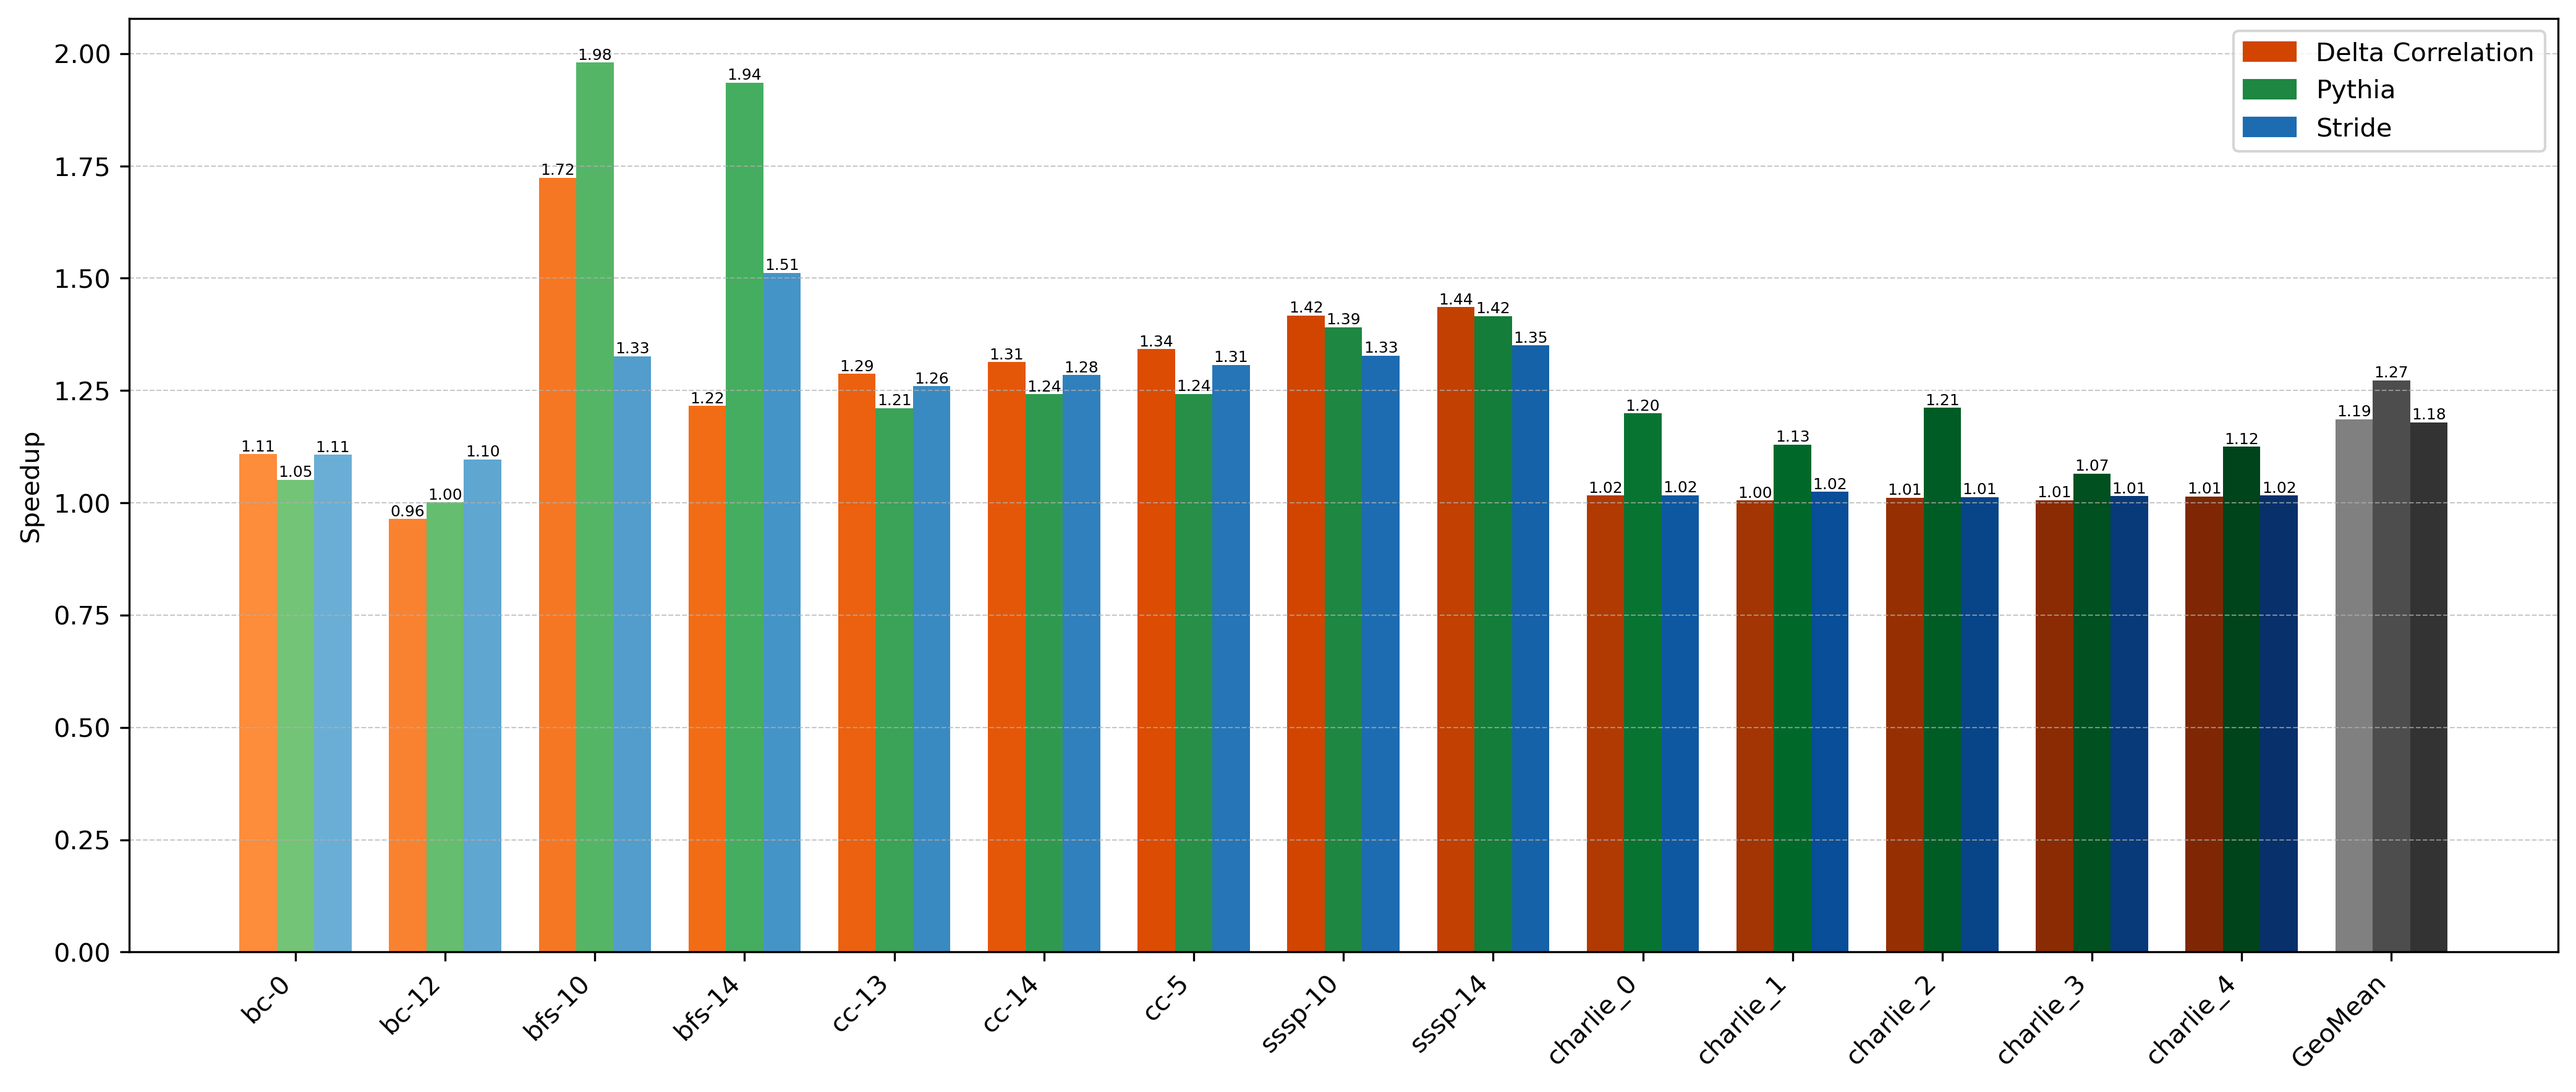
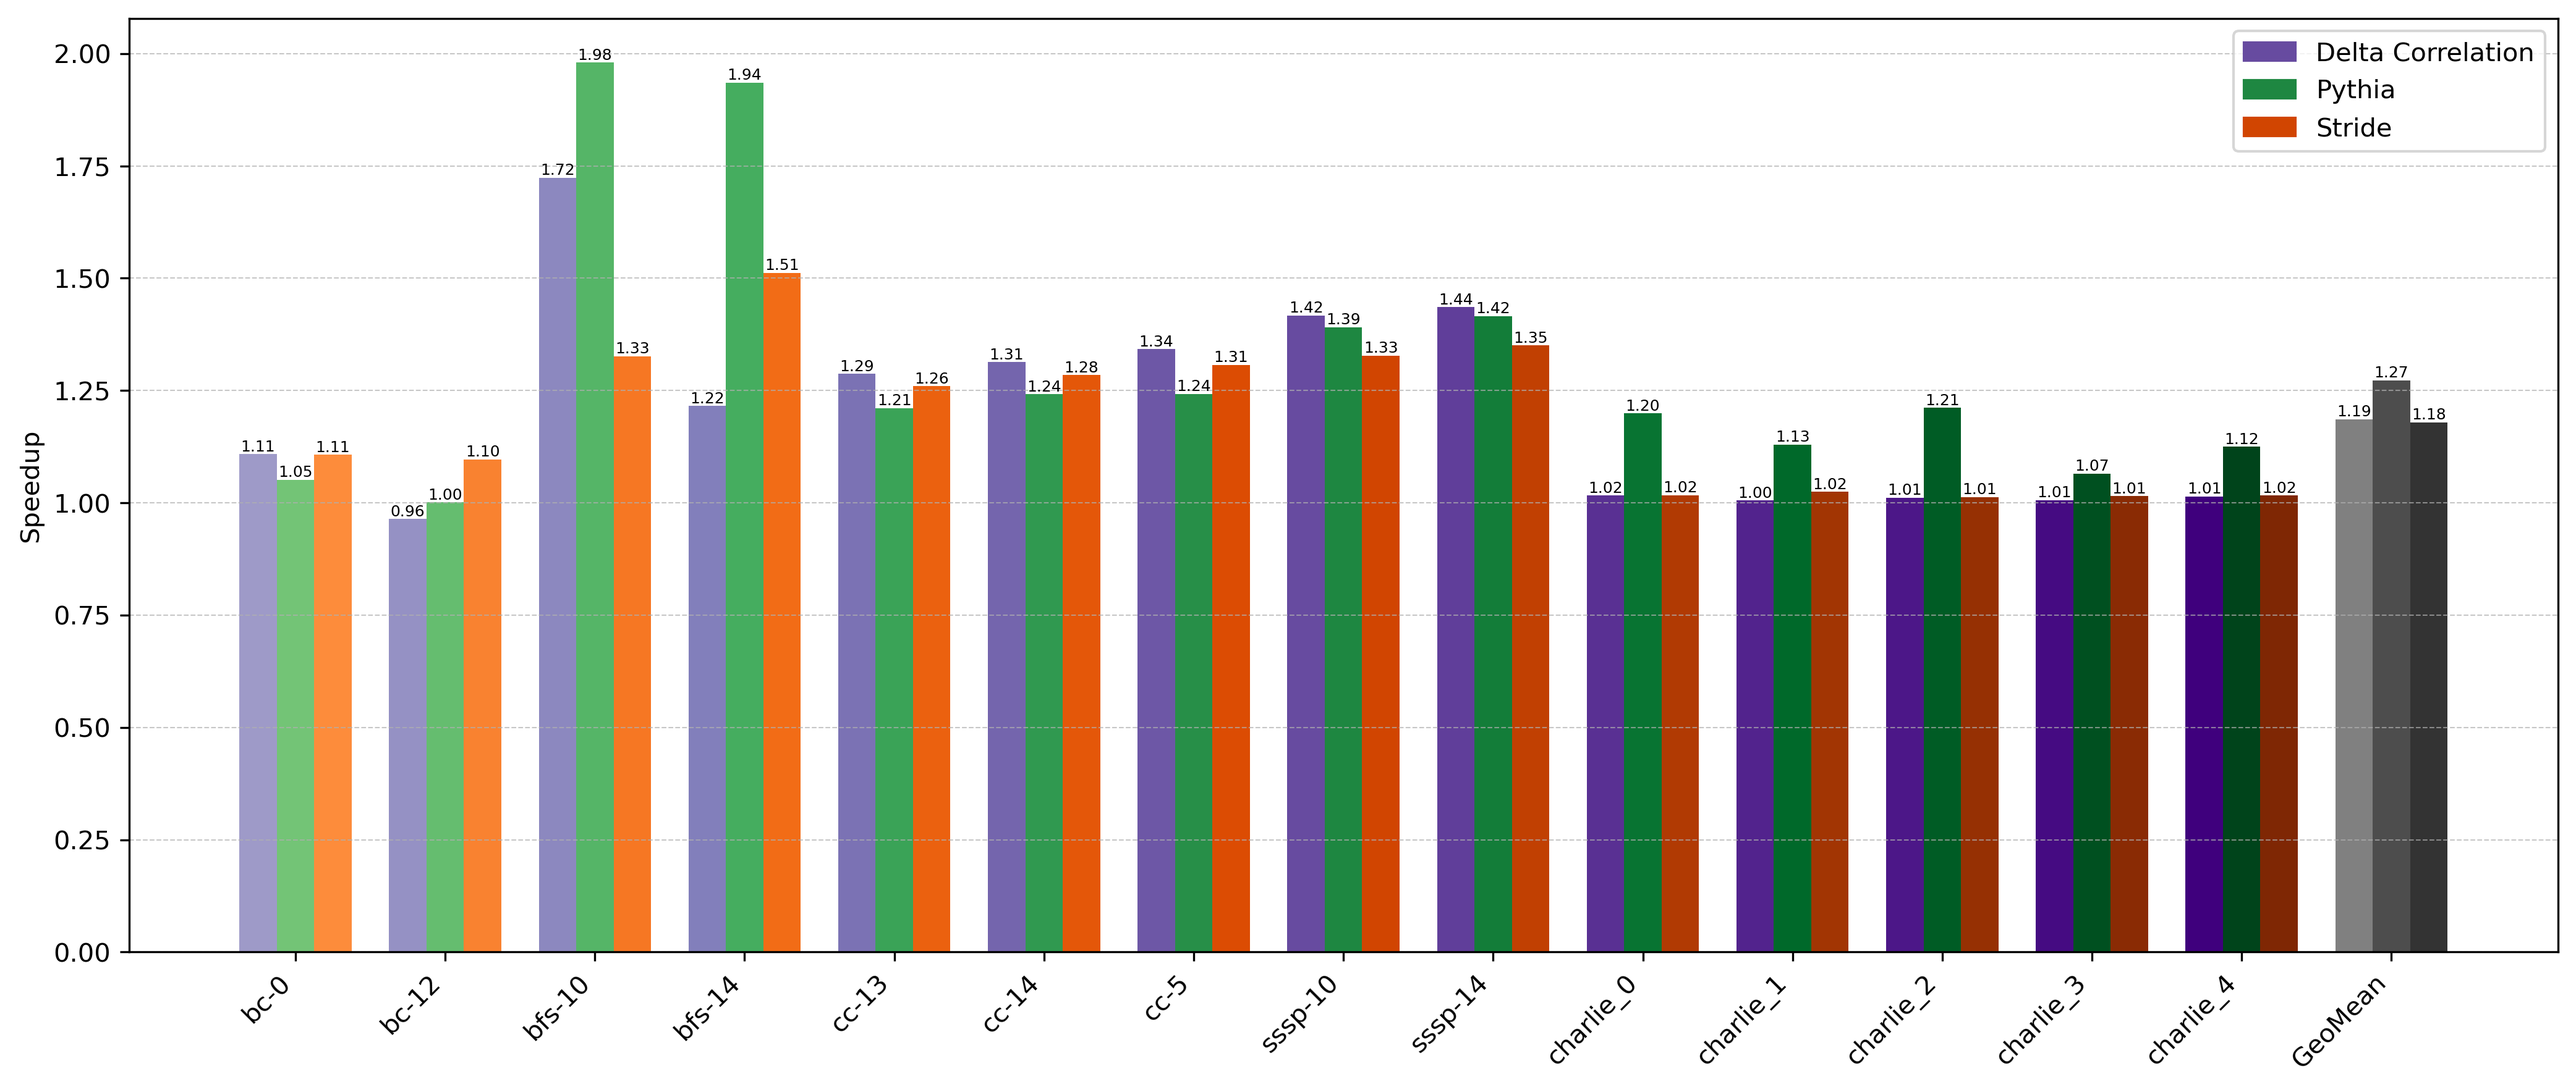
finished report

Changed region(s): [[0.0936, 0.1555, 0.9047, 0.871], [0.8735, 0.0933, 0.9047, 0.1244], [0.8735, 0.0311, 0.9047, 0.0622]]

diff --git a/report/plot.py b/report/plot.py
@@ -220,13 +220,13 @@ def speedup3_bar_plot(df_data1, df_data2, df_data3, df_base, file=None):
 
     # Colors: gradient for normal bars, distinct gray for GeoMean
     gradient1 = np.linspace(0.5, 1.0, len(speedup1)-1)
-    colors1 = np.vstack([plt.cm.Oranges(gradient1), np.array([[0.5,0.5,0.5,1]])])  # GeoMean gray
+    colors1 = np.vstack([plt.cm.Purples(gradient1), np.array([[0.5,0.5,0.5,1]])])  # GeoMean gray
 
     gradient2 = np.linspace(0.5, 1.0, len(speedup2)-1)
     colors2 = np.vstack([plt.cm.Greens(gradient2), np.array([[0.3,0.3,0.3,1]])])  # GeoMean gray
 
     gradient3 = np.linspace(0.5, 1.0, len(speedup3)-1)
-    colors3 = np.vstack([plt.cm.Blues(gradient3), np.array([[0.2,0.2,0.2,1]])])  # GeoMean gray
+    colors3 = np.vstack([plt.cm.Oranges(gradient3), np.array([[0.2,0.2,0.2,1]])])  # GeoMean gray
 
     # Plot bars
     bars1 = plt.bar(x - width, speedup1.values, width, color=colors1)

diff --git a/report/report.md b/report/report.md
@@ -1,6 +1,6 @@
 # Report Lab 4
 ## Introduction
-In the fourth installment of the computer architecture lab we are asked to implement a set of prefetchers in the ChampSim simulator environment.
+In the fourth installment of the computer architecture lab we are asked to implement a set of prefetchers in the ChampSim simulator environment. We are then asked to evaluate their performance in a system with a wide memory bandwidth and a limited memory bandwidth. We further then compare these different implementations to understand the different tradeoffs and effects that choices in the implementation have on the overall performance of the system. In a last step we compare the implemented prefetchers to the stat-of-the-art pythia prefetcher.
 
 ## Warmup
 In the warmup we are asked to run the baseline CPU simulation without a prefetcher attatched. In Figure 1 we can see the IPC plot for the baseline configuration. It is easy to see that there are significant differences between the applications performance. We can clearly see that charlie_0 has the highest ICU and is therefore the most performant or fastest trace, while bc-12 and bfs-14 are the least performant or the slowest. The bc-0 trace is also not far off from bc-12 and bfs-14. Further we observe that the traces from the GAP dataset are a lot slower than the traces from the charlie dataset.
@@ -98,7 +98,7 @@ From the non-limited bandwidth analysis we gain that the system-aware prefetcher
 ## Task 4
 In the fourth task we were asked to implement our own prefetcher design. I have opted for a delta correlation prefetcher as it is the natural extension of the stride prefetcher. The basic logic behind a delta correlation prefetcher is to store the deltas, i.e. differences between memory accesses. Over time the prefetcher builds a table associating consecutive deltas. This allows the prefetcher to predict the next delta by computing the last delta and looking in the table which delta is most likely to follow. This design is based on the desing presented in the paper by Grannaes et. al.[^2]
 
-[^2]: Grannaes, M., Jahre, M., & Natvig, L. (2011). Storage efficient hardware prefetching using Delta-Correlating Prediction Tables. Journal of Instruction-Level Parallelism, 13, 1–16.
+[^2]: Marius Grannaes, Magnus Jahre, and Lars Natvig. Storage efficient hardware prefetching using Delta-Correlating Prediction Tables. In Journal of Instruction-Level Parallelism, 2011.
 
 ### Implementation
 The delta correlation prefetcher builds on the foundations of the GHB-stride prefetcher. We use the same GHB and IT structs to store the past memory accesses. To this we add a delta-correlation-table(DCT) which stores the different deltas.
@@ -114,6 +114,37 @@ The prefetcher walks the IT and GHB in the same fassion as in the GHB-stride pre
 
 Next the prefetcher tries to predict the future memory access. For this he starts form the known `delta1` and probes its DCT entry for the most likely follow-up delta. It prefetches the cache block address at `current_address + delta`. It then proceeds from the predicted delta and tries to predict further by probing the DCT entry at the location of the predicted delta. The prefetcher repeats this for the same prefetch degree as the stride prefetcher. Allowing it to be system-aware with the same logic.
 
+The prefetcher is based on a set of heuristically determined parameters. The size of the DCT was chosen to be 256 to match the IT and GHB. Each DCT entry holds 4 candidate deltas. The index of the DCT is determined as `(prev_delta + DCT_SIZE/2) & DCT_MAX_ADDR` to avoid mapping deltas with only a sign flip to the same entry.
+
+A further heuristic that is applied is that before prefetching it is checked whether the `delta1` is already known to the entry corresponding to `delta2`. If yes then we prefetch memory and if not then we do not. The idea behind this heuristic is that if the current `delta1` is predicted by `delta2` the chance of being in a predictable pattern is very high. This small distinction has significant impact on the prefetchers performance.
+
 ### Results
+Figure 6 shows the speedup of the delta correlation prefetcher as well as the speedup of the system-aware stride prefetcher relative to the system with no prefetcher at full bandwidth. We can observe clear performance improvement for trace bfs-10 and marginal performance improvements for traces cc-13, cc-14, cc-5, ssp-10, and ssp-14. For traces bc-0 and all charlie traces we see no or minimal performance change and for traces bc-12 and bfs-14 we see clear performance degradation. It is also imporant to note that for the bc-12 trace the speedup is below 1 indicating that the system with the prefetcher performs worse than without. We see a marginal perfromance improvement in the geometric mean.
+
+![Figure 6](img/task4_delta_correlation_ghb_stride_sys_aware_fullBW_speedup.png)
+
+Figure 7 shows the speedup of the delta correlation prefetcher as well as the speedup of the system-aware stride prefetcher relative to the system with no prefetcher at limited bandwidth. We can see clear performance improvements for the traces bfs-10 and bfs-14 as well as marginal performance improvements for cc-13, cc-14, cc-5, sssp-10, and sssp-14. For bc-0 and all charlie traces we see only small or no performanc e difference between the stride and the delta correlation prefetcher. For the trace bc-12 we still see clear performance degradation but now the delta correlation prefetcher has a speedup of 1 indicating that it matches the performance of the baseline system. We see a clear perfromance improvement in the geometric mean.
+
+![Figure 7](img/task4_delta_correlation_ghb_stride_sys_aware_limitBW_speedup.png)
+
+### Discussion
+From the data it can clearly be seen that the delta correlation prefetcher performs a lot better in the bandwidth limited system then in the unlimited system. This implies that while it cannot provide a strong peak performance it seems to be very efficient at alocating limited resources. We can also see that there is a very heavy trace dependence in the performance. For certain traces the delta correlation prefetcher clearly outperforms the stride prefetcher, while for others it does not manage to meet the baseline performance. While for some traces the relative performance is consistent between limited and full memory bandwidth for other traces this is not the case. This can be due to the inherent predictability of a trace or specific data patterns used. It could also be that some of these swings could be tuned by changing the ad hoc decided parameterisation of the delta correlation prefetcher. A conclusive reason of these performance swings cannot be given in this discussion as it warants further investigation which would exceed the scope of this lab.
 
 ## Bonus Task
+In the bonus task we are asked to compare our prefetcher to the state-of-the-art pythia prefetcher.[^3]
+
+### Results
+Figure 8 shows the pythia prefetcher compared to both the system-aware stride prefetcher and delta correlation prefetcher relative to the full bandwidth baseline. Pythia performs best on the traces bfs-10 and bfs-14 and performs worst on the traces bc-0 and bc-12. We can also see that pythia provides significant speedup over the baseline for the charlie traces. For the traces cc-13, cc-14, cc-5, sssp-10, and sssp-14 the performance of the three prefetchers is very similar with the delta correlation prefetcher leading in all traces and both pythia and the stride prefetcher in second for some of the traces. We can see that pythia clearly outperforms both the system aware prefetcher and the delta correlation prefetcher in the geometric mean.
+
+![Figure 8](img/task5_delta_correlation_pythia_ghb_stride_sys_aware_fullBW_speedup.png)
+
+Figure 9 shows the pythia prefetcher compared to both the system-aware stride prefetcher and delta correlation prefetcher relative to the limited bandwidth baseline. Pythia still wastly outperforms the other prefetchers in the bfs-10 and bfs-14 traces as well as in the charlie traces. But it shows clear performance degradation in the bc-0 and bc-12 traces where it does not even match the baseline indicated by a speedup below 1. In the traces cc-13, cc-14, cc-5, sssp-10, and sssp-14 it is outperformed by both the stride prefetcher and the delta correlation prefetcher. The geometric mean performance of pythia is now almost equal to that of the delta correlation prefetcher which both outperform the stride prefetcher.
+
+![Figure 9](img/task5_delta_correlation_pythia_ghb_stride_sys_aware_limitBW_speedup.png)
+
+### Discussion
+Pythia shows over all remarkable performance in the full bandwidth system. And also shows remarkable performance for the bfs traces in the limited bandwidth system. It is also very interesting that pythia is the only prefetcher shown here that achieves a significant speedup for the charlie dataset. From the data we can also conclude that pythia suffers heavily under a memory bandwidth limitation. It is very interesting that the relatively simple delta correlation prefetcher implemented in the scope of this lab almost matche the performance of pythia for the limited bandwidth system.
+
+[^3]: Rahul Bera, Konstantinos Kanellopoulos, Anant V. Nori, Taha Shahroodi, Sreenivas Subramoney, and
+Onur Mutlu. Pythia: A Customizable Hardware Prefetching Framework Using Online Reinforcement
+Learning. In MICRO, 2021.
